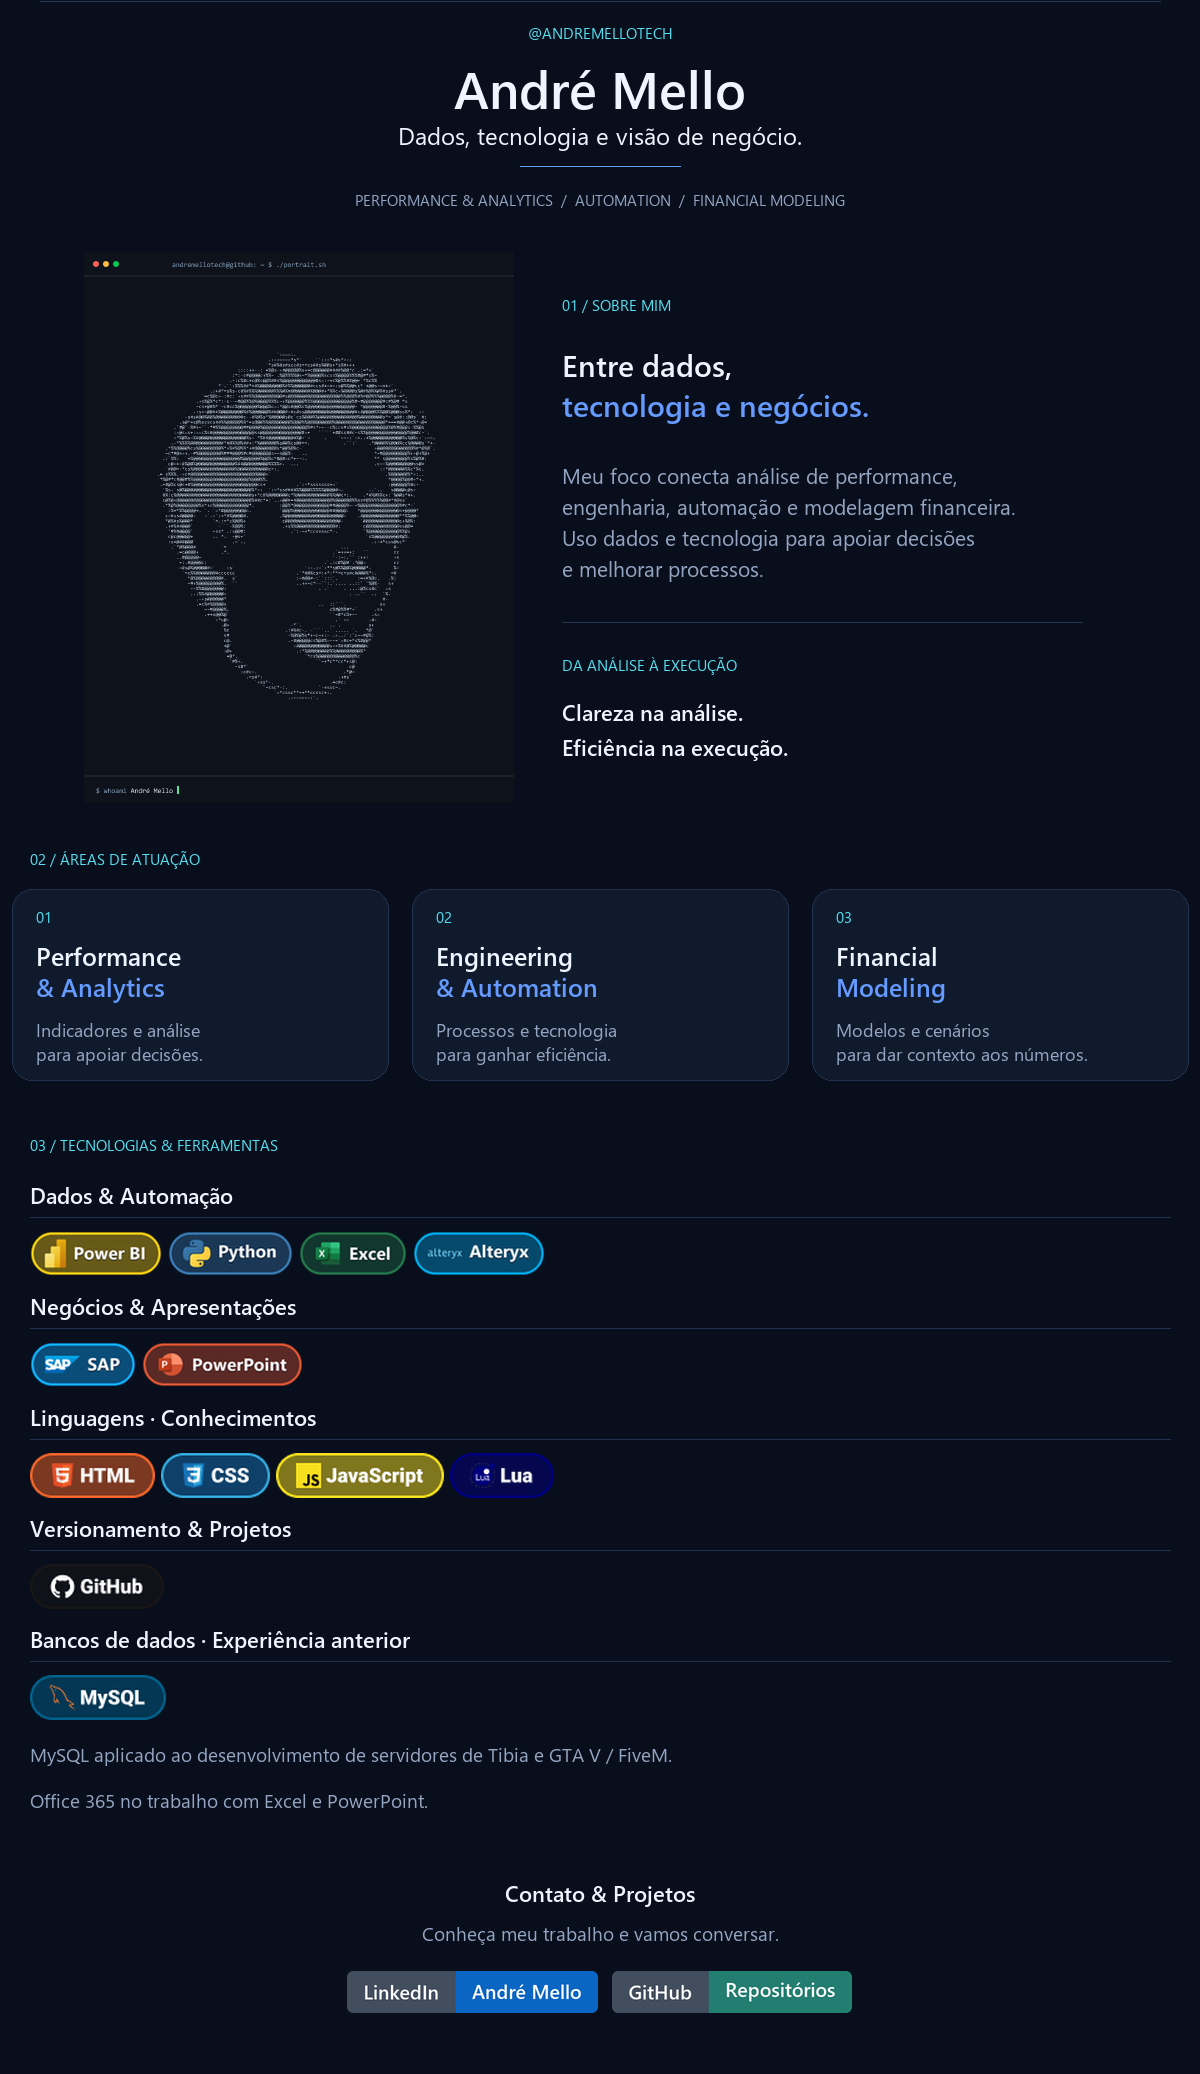
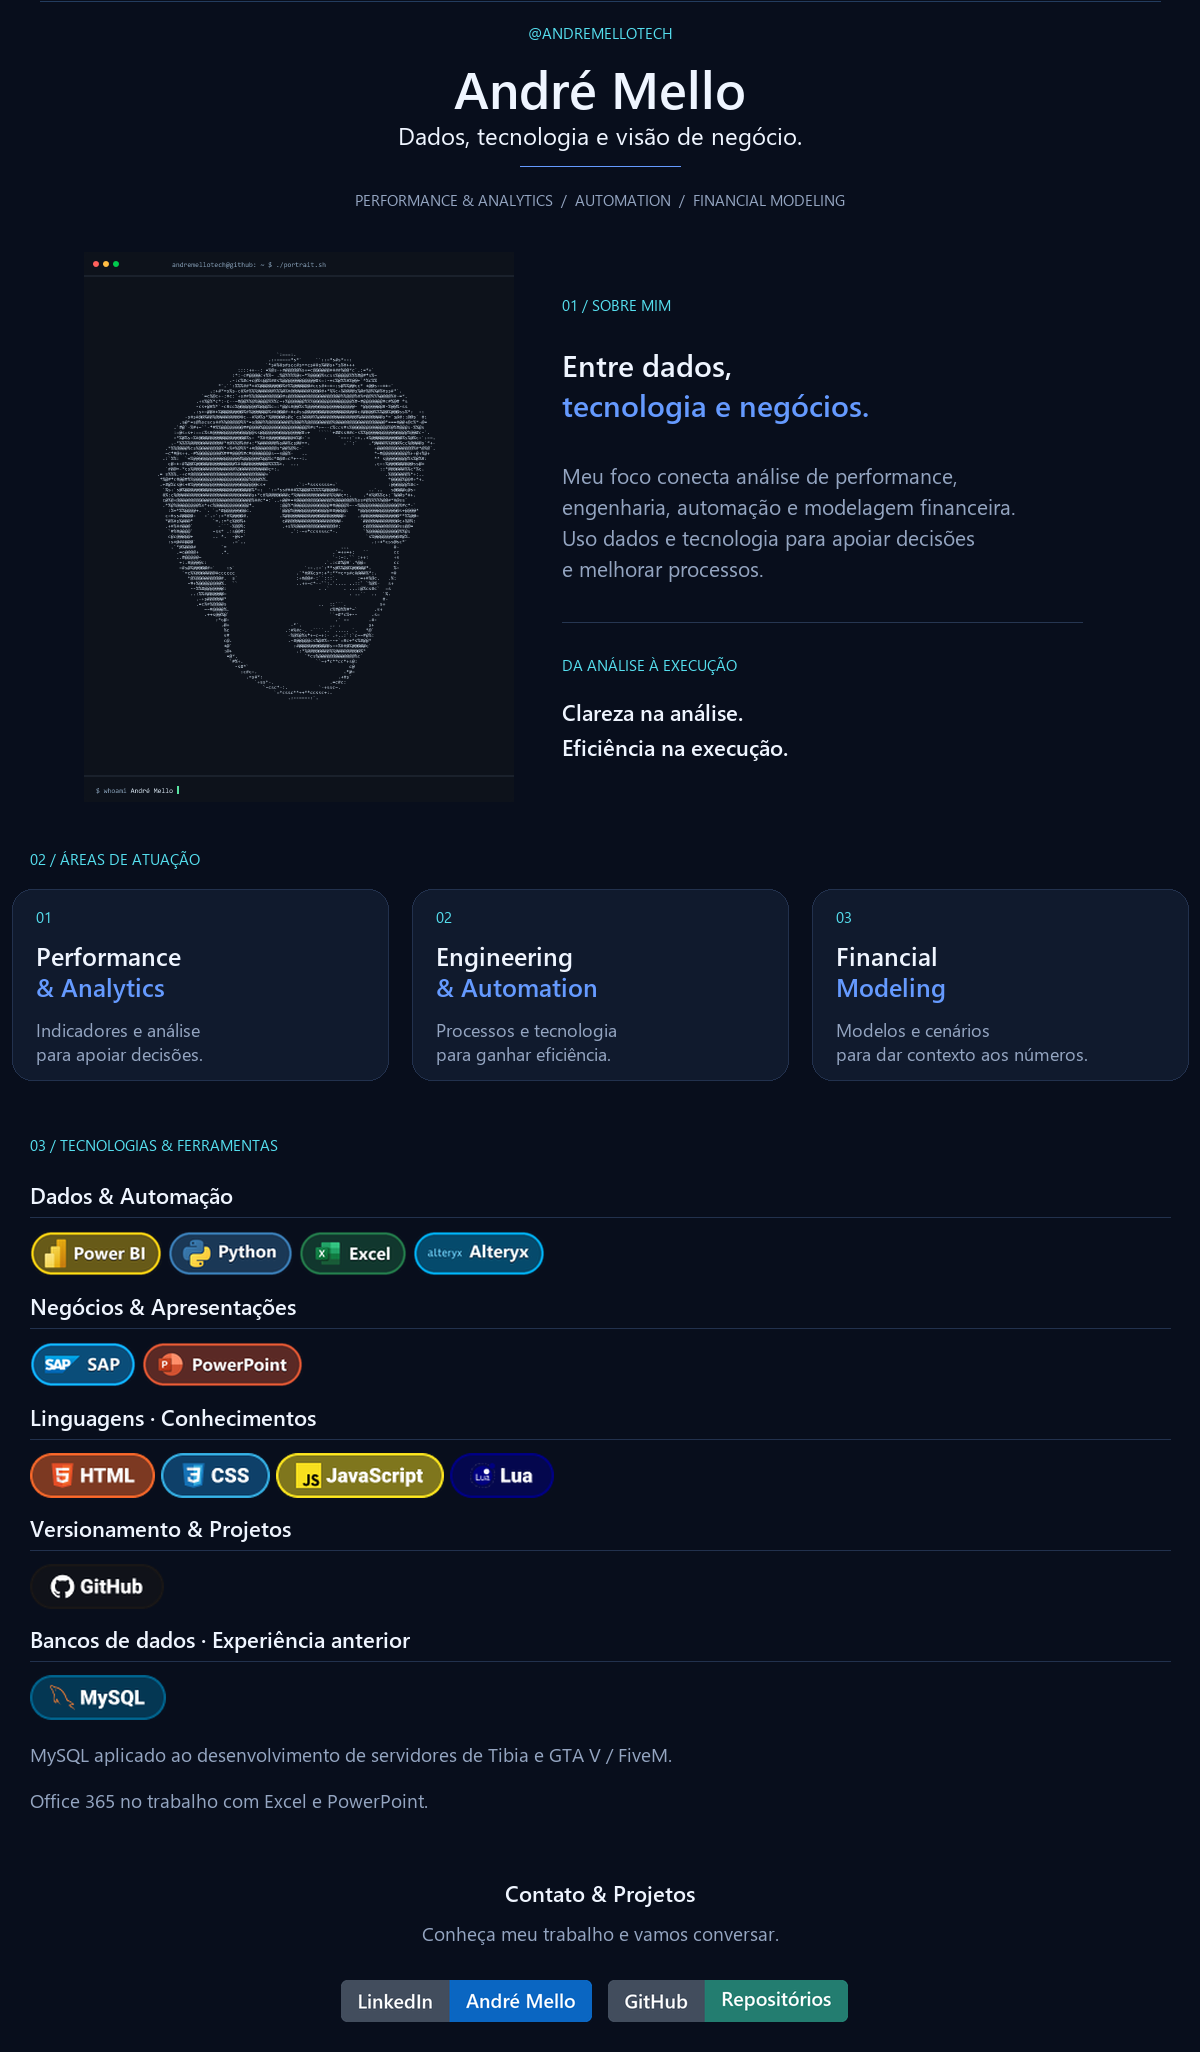
fix: manter composição visual contínua no perfil do GitHub

diff --git a/previa.html b/previa.html
@@ -1,46 +1,4 @@
-<!doctype html><html lang="pt-BR"><meta charset="utf-8"><meta name="viewport" content="width=device-width,initial-scale=1"><title>André Mello — prévia do perfil</title><style>body{margin:0;background:#080e1c;color:#eff5ff;font:16px system-ui}main{max-width:1000px;margin:32px auto;padding:24px}img{vertical-align:middle;max-width:100%}img[width]{height:auto}img[height="36"]{height:36px;width:auto}img[height="28"]{height:28px;width:auto}a{color:#659aff}details{text-align:left;margin-top:16px;padding:18px 24px;border:1px solid #22314d;border-radius:12px}h3{font-size:18px;font-weight:600}summary{cursor:pointer}li{margin:8px 0}div[align="left"] h3{border-bottom:1px solid #22314d;padding-bottom:12px}div[align="left"] p{line-height:2.8}div[align="left"] p img{margin-bottom:4px}@media(max-width:600px){main{padding:10px;margin:8px auto}picture img,img[alt^="Sobre mim"]{width:100%}}</style><main><div align="center">
-
-<img src="./assets/hero.png" width="100%" alt="André Mello — Dados, tecnologia e visão de negócio. Performance, análise, automação e modelagem financeira." />
-
-<br><br>
-
-<picture><source media="(prefers-reduced-motion: reduce)" srcset="./assets/andre-ascii.png"><img src="./assets/andre-ascii.gif" width="36%" alt="Retrato animado de André Mello em arte ASCII" /></picture>
-<img src="./assets/about.png" width="49%" alt="Sobre mim: foco em análise de performance, engenharia, automação e modelagem financeira." />
-
-<br><br>
-
-<img src="./assets/expertise.png" width="100%" alt="Áreas de atuação: Performance e Analytics; Engineering e Automation; Financial Modeling." />
-
-<br>
-
-<div align="left">
-<h3>Dados & Automação</h3>
-<p><img src="./assets/badges/powerbi.webp" height="36" alt="Power BI" /> <img src="./assets/badges/python.webp" height="36" alt="Python" /> <img src="./assets/badges/excel.webp" height="36" alt="Excel" /> <img src="./assets/badges/alteryx.webp" height="36" alt="Alteryx" /></p>
-<h3>Negócios & Apresentações</h3>
-<p><img src="./assets/badges/sap.webp" height="36" alt="SAP" /> <img src="./assets/badges/powerpoint.webp" height="36" alt="PowerPoint" /></p>
-<p><sub>Office 365 no trabalho com Excel e PowerPoint.</sub></p>
-<h3>Linguagens · Conhecimentos</h3>
-<p><img src="./assets/badges/HTML2.webp" height="36" alt="HTML" /> <img src="./assets/badges/CSS2.webp" height="36" alt="CSS" /> <img src="./assets/badges/JavaScript2.webp" height="36" alt="JavaScript" /> <img src="./assets/badges/Lua2.webp" height="36" alt="Lua" /></p>
-<h3>Versionamento & Projetos</h3>
-<p><img src="./assets/badges/GitHub.webp" height="36" alt="GitHub" /></p>
-<h3>Bancos de dados · Experiência anterior</h3>
-<p><img src="./assets/badges/MySQL.webp" height="36" alt="MySQL" /></p>
-<p><sub>MySQL aplicado ao desenvolvimento de servidores de Tibia e GTA V / FiveM.</sub></p>
-</div>
-
-<br>
-
-<h3>Contato & Projetos</h3>
-
-<p>Conheça meu trabalho e vamos conversar.</p>
-
-<p>
-<a href="https://www.linkedin.com/in/aamello/"><img src="./assets/link-linkedin.png" height="28" alt="LinkedIn — André Mello" /></a>
-&nbsp;
-<a href="https://github.com/andremellotech?tab=repositories"><img src="./assets/link-github.png" height="28" alt="GitHub — explorar meus repositórios" /></a>
-</p>
-
-</div>
+<!doctype html><html lang="pt-BR"><meta charset="utf-8"><meta name="viewport" content="width=device-width,initial-scale=1"><title>André Mello — prévia compatível com GitHub</title><style>body{background:#f6f8fa;color:#1f2328;margin:0;font:14px/1.5 system-ui}main{max-width:900px;background:white;border:1px solid #d1d9e0;border-radius:6px;padding:24px;margin:24px auto}p{margin:0 0 16px}img{max-width:100%;height:auto;vertical-align:top}details{margin:12px 0}summary{cursor:pointer}a{color:#0969da}@media(max-width:600px){main{padding:12px;margin:8px}}</style><main><p align="center"><picture><source media="(prefers-reduced-motion: reduce)" srcset="./assets/profile-card.png"><img src="./assets/profile-card.gif" width="100%" align="top" alt="André Mello — Dados, tecnologia e visão de negócio. Performance e Analytics; Engineering e Automation; Financial Modeling. Ferramentas: Power BI, Python, Excel, Alteryx, SAP e PowerPoint; conhecimentos em HTML, CSS, JavaScript e Lua; GitHub; experiência anterior em MySQL nos servidores de Tibia e GTA V / FiveM. Office 365 com Excel e PowerPoint. Apresentação completa na versão em texto abaixo." /></picture><a href="https://www.linkedin.com/in/aamello/"><img src="./assets/footer-linkedin.png" width="50%" align="top" alt="LinkedIn — André Mello" /></a><a href="https://github.com/andremellotech?tab=repositories"><img src="./assets/footer-github.png" width="50%" align="top" alt="GitHub — explorar meus repositórios" /></a></p>
 
 <details>
 <summary>Sobre mim — versão em texto</summary>

diff --git a/scripts/github_layout.py b/scripts/github_layout.py
@@ -1,0 +1,84 @@
+"""Keep the approved dark composition intact inside GitHub's README renderer."""
+from pathlib import Path
+from PIL import Image, ImageDraw, ImageFont
+import os
+
+BG='#080e1c'
+def build_github_layout(root):
+    a=root/'assets'
+    panels=[]
+    for name in ['hero','about-pair','expertise','stack']:
+        if name=='about-pair':
+            panel=Image.new('RGB',(1200,550),BG)
+            panel.paste(Image.open(a/'andre-ascii.png').convert('RGB'),(84,0))
+            panel.paste(Image.open(a/'about.png'),(532,0))
+        else:panel=Image.open(a/(name+'.png')).convert('RGB')
+        panels.append(panel)
+    height=sum(p.height for p in panels)+28*len(panels)+102
+    main=Image.new('RGB',(1200,height),BG)
+    y=0
+    portrait_y=panels[0].height+28
+    for p in panels:main.paste(p,(0,y));y+=p.height+28
+    d=ImageDraw.Draw(main)
+    fonts=Path('C:/Windows/Fonts') if os.name=='nt' else Path('/usr/share/fonts/truetype/dejavu')
+    heading=ImageFont.truetype(str(fonts/('seguisb.ttf' if os.name=='nt' else 'DejaVuSans-Bold.ttf')),22)
+    body=ImageFont.truetype(str(fonts/('segoeui.ttf' if os.name=='nt' else 'DejaVuSans.ttf')),19)
+    for offset,text,f,color in [(12,'Contato & Projetos',heading,'#eff5ff'),(54,'Conheça meu trabalho e vamos conversar.',body,'#94a5c1')]:
+        d.text(((1200-d.textlength(text,font=f))/2,y+offset),text,font=f,fill=color)
+    main.save(a/'profile-card.png')
+
+    # One global palette keeps all non-animated text and panels pixel-stable.
+    palette=main.quantize(colors=256,dither=Image.Dither.NONE)
+    portrait=Image.open(a/'andre-ascii.gif')
+    frames=[];durations=[]
+    for i in range(portrait.n_frames):
+        portrait.seek(i)
+        frame=palette.copy()
+        avatar=portrait.convert('RGB').quantize(palette=palette,dither=Image.Dither.NONE)
+        frame.paste(avatar,(84,portrait_y))
+        frames.append(frame)
+        durations.append(portrait.info.get('duration',80))
+    frames[0].save(a/'profile-card.gif',save_all=True,append_images=frames[1:],
+                   loop=0,duration=durations,disposal=1,optimize=True)
+
+    footer=Image.new('RGB',(1200,84),BG)
+    for stem,side in [('link-linkedin',0),('link-github',1)]:
+        half=Image.new('RGB',(600,84),BG)
+        badge=Image.open(a/(stem+'.png')).convert('RGBA')
+        badge=badge.resize((round(badge.width/2),42),Image.Resampling.LANCZOS)
+        x=600-badge.width-8 if side==0 else 8
+        half.paste(badge,(x,12),badge)
+        half.save(a/('footer-linkedin.png' if side==0 else 'footer-github.png'))
+        footer.paste(half,(600*side,0))
+    preview=Image.new('RGB',(1200,height+84),BG)
+    preview.paste(main,(0,0));preview.paste(footer,(0,height));preview.save(root/'PREVIA.png')
+
+    old=(root/'README.md').read_text(encoding='utf-8')
+    details=old[old.index('<details>'):]
+    alt=('André Mello — Dados, tecnologia e visão de negócio. Performance e Analytics; '
+         'Engineering e Automation; Financial Modeling. Ferramentas: Power BI, Python, Excel, '
+         'Alteryx, SAP e PowerPoint; conhecimentos em HTML, CSS, JavaScript e Lua; GitHub; '
+         'experiência anterior em MySQL nos servidores de Tibia e GTA V / FiveM. '
+         'Office 365 com Excel e PowerPoint. Apresentação completa na versão em texto abaixo.')
+    # Adjacent inline images with align=top avoid paragraph and baseline gaps.
+    visual=('<p align="center"><picture><source media="(prefers-reduced-motion: reduce)" '
+            'srcset="./assets/profile-card.png"><img src="./assets/profile-card.gif" '
+            'width="100%" align="top" alt="'+alt+'" /></picture>'
+            '<a href="https://www.linkedin.com/in/aamello/"><img src="./assets/footer-linkedin.png" '
+            'width="50%" align="top" alt="LinkedIn — André Mello" /></a>'
+            '<a href="https://github.com/andremellotech?tab=repositories"><img '
+            'src="./assets/footer-github.png" width="50%" align="top" '
+            'alt="GitHub — explorar meus repositórios" /></a></p>')
+    readme=visual+'\n\n'+details
+    (root/'README.md').write_text(readme,encoding='utf-8')
+    html=('<!doctype html><html lang="pt-BR"><meta charset="utf-8">'
+          '<meta name="viewport" content="width=device-width,initial-scale=1">'
+          '<title>André Mello — prévia compatível com GitHub</title>'
+          '<style>body{background:#f6f8fa;color:#1f2328;margin:0;font:14px/1.5 system-ui}'
+          'main{max-width:900px;background:white;border:1px solid #d1d9e0;border-radius:6px;'
+          'padding:24px;margin:24px auto}p{margin:0 0 16px}img{max-width:100%;height:auto;'
+          'vertical-align:top}details{margin:12px 0}summary{cursor:pointer}'
+          'a{color:#0969da}@media(max-width:600px){main{padding:12px;margin:8px}}</style>'
+          '<main>'+readme+'</main></html>')
+    (root/'previa.html').write_text(html,encoding='utf-8')
+    print('Continuous GitHub card:',len(frames),'frames,',(a/'profile-card.gif').stat().st_size,'bytes')

diff --git a/scripts/design.py b/scripts/design.py
@@ -200,4 +200,7 @@ for name in ['hero','about-pair','expertise','stack','contacts']:
 sheet.crop((0,0,1200,y)).save(ROOT/'PREVIA.png')
 print('Profile built: typography header, 12 tool badges, compact contact links and collapsible activity.')
 
+from github_layout import build_github_layout
+build_github_layout(ROOT)
+
 

diff --git a/README.md b/README.md
@@ -1,46 +1,4 @@
-<div align="center">
-
-<img src="./assets/hero.png" width="100%" alt="André Mello — Dados, tecnologia e visão de negócio. Performance, análise, automação e modelagem financeira." />
-
-<br><br>
-
-<picture><source media="(prefers-reduced-motion: reduce)" srcset="./assets/andre-ascii.png"><img src="./assets/andre-ascii.gif" width="36%" alt="Retrato animado de André Mello em arte ASCII" /></picture>
-<img src="./assets/about.png" width="49%" alt="Sobre mim: foco em análise de performance, engenharia, automação e modelagem financeira." />
-
-<br><br>
-
-<img src="./assets/expertise.png" width="100%" alt="Áreas de atuação: Performance e Analytics; Engineering e Automation; Financial Modeling." />
-
-<br>
-
-<div align="left">
-<h3>Dados & Automação</h3>
-<p><img src="./assets/badges/powerbi.webp" height="36" alt="Power BI" /> <img src="./assets/badges/python.webp" height="36" alt="Python" /> <img src="./assets/badges/excel.webp" height="36" alt="Excel" /> <img src="./assets/badges/alteryx.webp" height="36" alt="Alteryx" /></p>
-<h3>Negócios & Apresentações</h3>
-<p><img src="./assets/badges/sap.webp" height="36" alt="SAP" /> <img src="./assets/badges/powerpoint.webp" height="36" alt="PowerPoint" /></p>
-<p><sub>Office 365 no trabalho com Excel e PowerPoint.</sub></p>
-<h3>Linguagens · Conhecimentos</h3>
-<p><img src="./assets/badges/HTML2.webp" height="36" alt="HTML" /> <img src="./assets/badges/CSS2.webp" height="36" alt="CSS" /> <img src="./assets/badges/JavaScript2.webp" height="36" alt="JavaScript" /> <img src="./assets/badges/Lua2.webp" height="36" alt="Lua" /></p>
-<h3>Versionamento & Projetos</h3>
-<p><img src="./assets/badges/GitHub.webp" height="36" alt="GitHub" /></p>
-<h3>Bancos de dados · Experiência anterior</h3>
-<p><img src="./assets/badges/MySQL.webp" height="36" alt="MySQL" /></p>
-<p><sub>MySQL aplicado ao desenvolvimento de servidores de Tibia e GTA V / FiveM.</sub></p>
-</div>
-
-<br>
-
-<h3>Contato & Projetos</h3>
-
-<p>Conheça meu trabalho e vamos conversar.</p>
-
-<p>
-<a href="https://www.linkedin.com/in/aamello/"><img src="./assets/link-linkedin.png" height="28" alt="LinkedIn — André Mello" /></a>
-&nbsp;
-<a href="https://github.com/andremellotech?tab=repositories"><img src="./assets/link-github.png" height="28" alt="GitHub — explorar meus repositórios" /></a>
-</p>
-
-</div>
+<p align="center"><picture><source media="(prefers-reduced-motion: reduce)" srcset="./assets/profile-card.png"><img src="./assets/profile-card.gif" width="100%" align="top" alt="André Mello — Dados, tecnologia e visão de negócio. Performance e Analytics; Engineering e Automation; Financial Modeling. Ferramentas: Power BI, Python, Excel, Alteryx, SAP e PowerPoint; conhecimentos em HTML, CSS, JavaScript e Lua; GitHub; experiência anterior em MySQL nos servidores de Tibia e GTA V / FiveM. Office 365 com Excel e PowerPoint. Apresentação completa na versão em texto abaixo." /></picture><a href="https://www.linkedin.com/in/aamello/"><img src="./assets/footer-linkedin.png" width="50%" align="top" alt="LinkedIn — André Mello" /></a><a href="https://github.com/andremellotech?tab=repositories"><img src="./assets/footer-github.png" width="50%" align="top" alt="GitHub — explorar meus repositórios" /></a></p>
 
 <details>
 <summary>Sobre mim — versão em texto</summary>

diff --git a/COMO-USAR.md b/COMO-USAR.md
@@ -33,3 +33,7 @@ Fontes dos ícones: https://api.iconify.design/logos/python.svg, https://api.ico
 HTML, CSS, JavaScript e Lua aparecem em Linguagens · Conhecimentos, conforme informado pelo usuário. Python permanece destacado em Dados & Automação. Os badges adicionais CSS, JavaScript e Lua mantêm os arquivos da referência mixzira, totalizando 12 badges.
 
 A revisão tipográfica usa Segoe UI e Segoe UI Semibold no Windows. O nome foi reduzido de 88 para 52 pixels na arte original; os títulos de apresentação usam 30 pixels, os de cards 25 e os de categorias 22. Os tamanhos exibidos no GitHub variam proporcionalmente à largura disponível. O retrato ocupa 36% da largura e o texto de apresentação 49%, para equilibrar as alturas. Os badges de tecnologias mantêm os 36 pixels de altura.
+
+## Composição contínua no GitHub
+
+O conteúdo principal é gerado em uma única imagem animada `assets/profile-card.gif`, com alternativa estática em `assets/profile-card.png`. Isso mantém o fundo, os espaços e os badges iguais à composição aprovada, mesmo quando o GitHub usa tema claro. Os dois recortes do rodapé continuam sendo links reais para LinkedIn e repositórios. `scripts/github_layout.py` gera essa composição e é chamado pelo gerador principal. A prévia HTML agora usa fundo externo claro, próximo ao GitHub, sem aplicar um fundo escuro artificial ao README. Os arquivos individuais dos badges permanecem disponíveis para edição, mas são incorporados ao painel no perfil. A versão em texto continua recolhível e acessível abaixo da arte.
